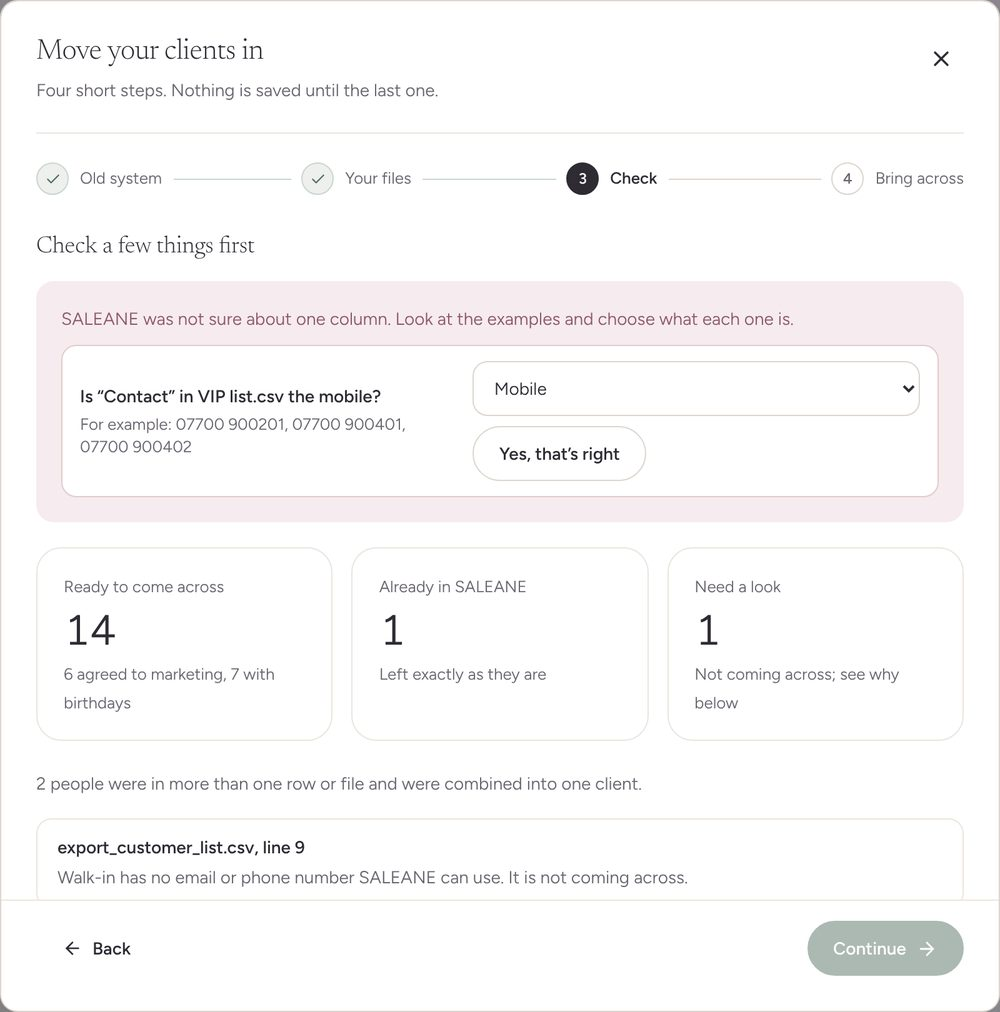
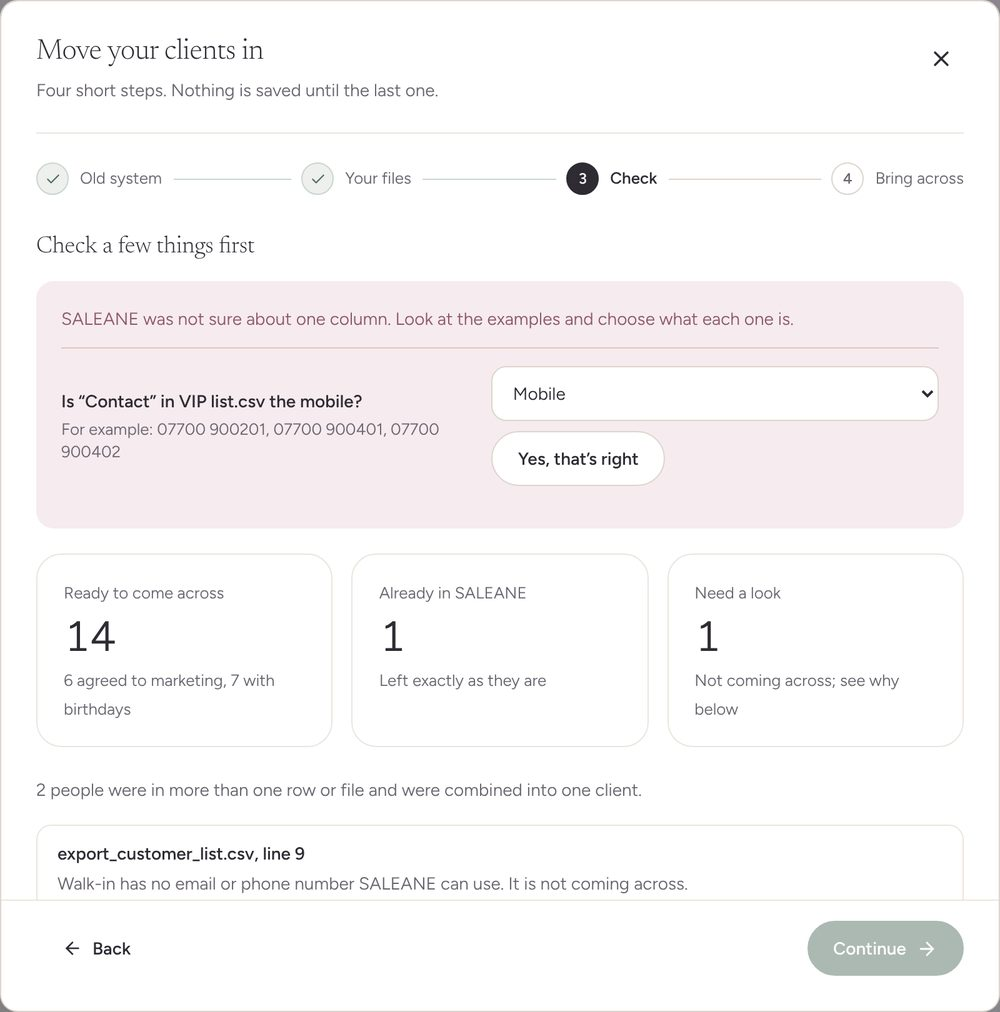
Moving in meets the quality bar
Questions and column choices on the Check step are rows with a hairline
instead of boxes inside boxes. Continue fills the width at the foot of each
step on a phone, with Back as a quiet partner. Each step body carries the
shared settle motion, which takes effect once it lands on main. The evidence
records the quality checklist at 1440 and 390 pixels, with refreshed
screenshots.

Claude-Session: https://claude.ai/code/session_01AmU8YcYNTsC8dzb2eYxY79

diff --git a/src/components/MovingIn.tsx b/src/components/MovingIn.tsx
@@ -230,7 +230,7 @@ export function MovingIn({ onClose }: { onClose: () => void }) {
         <WizardSteps steps={STEPS} current={step} label="Moving in steps" />
 
         {step === 1 && (
-          <section aria-labelledby={headingId}>
+          <section className="settle" aria-labelledby={headingId}>
             <h3 id={headingId} ref={heading} tabIndex={-1} className="wizard-heading">
               Where are you moving from?
             </h3>
@@ -250,7 +250,7 @@ export function MovingIn({ onClose }: { onClose: () => void }) {
         )}
 
         {step === 2 && system && (
-          <section aria-labelledby={headingId}>
+          <section className="settle" aria-labelledby={headingId}>
             <h3 id={headingId} ref={heading} tabIndex={-1} className="wizard-heading">
               {systemName ? `Add your ${systemName} client list` : 'Add your client list'}
             </h3>
@@ -329,7 +329,7 @@ export function MovingIn({ onClose }: { onClose: () => void }) {
         )}
 
         {step === 3 && (
-          <section aria-labelledby={headingId}>
+          <section className="settle" aria-labelledby={headingId}>
             <h3 id={headingId} ref={heading} tabIndex={-1} className="wizard-heading">
               {questions.length ? 'Check a few things first' : 'Check your clients'}
             </h3>
@@ -406,7 +406,7 @@ export function MovingIn({ onClose }: { onClose: () => void }) {
         )}
 
         {step === 4 && (
-          <section aria-labelledby={headingId}>
+          <section className="settle" aria-labelledby={headingId}>
             <h3 id={headingId} ref={heading} tabIndex={-1} className="wizard-heading">
               Bring them across
             </h3>

diff --git a/src/components/movingIn.css b/src/components/movingIn.css
@@ -112,19 +112,20 @@
   color: var(--rose-ink);
   font-size: var(--text-small);
 }
-.moving-questions .moving-field {
-  border-color: color-mix(in srgb, var(--rose) 22%, var(--line));
+.moving-questions > p + .moving-field {
+  margin-top: 12px;
 }
+.moving-questions .moving-field {
+  border-top-color: color-mix(in srgb, var(--rose) 28%, var(--line));
+}
+/* Each column is a row with a hairline above it, never a box inside a box. */
 .moving-field {
   display: grid;
   grid-template-columns: minmax(0, 1fr) auto;
   align-items: center;
   gap: 14px;
-  margin-top: 10px;
-  padding: 12px 14px;
-  border: 1px solid var(--line);
-  border-radius: var(--radius-control);
-  background: var(--paper);
+  padding: 14px 0;
+  border-top: 1px solid var(--line);
 }
 .moving-field label {
   display: block;
@@ -227,10 +228,7 @@
 .moving-columns ul {
   list-style: none;
   margin: 0;
-  padding: 0 14px 14px;
-}
-.moving-columns .moving-field {
-  margin-top: 8px;
+  padding: 0 16px 4px;
 }
 .moving-lead {
   margin: 0 0 14px;

diff --git a/src/design/components/wizard.css b/src/design/components/wizard.css
@@ -156,6 +156,10 @@
     min-height: 56px;
     padding: 0 14px;
   }
+  /* The way forward fills the width, within reach of a thumb; Back stays a quiet partner. */
+  .wizard-footer > .button:last-child {
+    flex: 1;
+  }
 }
 /* Matches the dialog's own padding on small screens. */
 @media (max-width: 650px) {

diff --git a/docs/evidence/MOVING-01.md b/docs/evidence/MOVING-01.md
@@ -49,6 +49,22 @@ The move is listed under Settings, Switching over, What has come across ("Client
 
 ![Phone, 390 pixels](MOVING-01-phone-390.jpg)
 
+## Quality bar
+
+Worked through at 1440 and 390 pixels against the checklist in the design language (Quality bar).
+
+- [x] **One main job and one primary button.** Each step has one heading and one primary button: Continue, then "Bring 14 clients across". "Yes, that’s right" on a question is secondary.
+- [x] **Rarely used options tucked away.** How each column was read is folded away for each file; rows to look at appear only when there are some.
+- [x] **No card inside a card.** Questions and column choices are rows with a hairline between them; the rows to look at are rows in one panel.
+- [x] **At most one photograph.** None: these are working steps.
+- [ ] **Empty welcome.** Not applicable: this is a dialog, not a page.
+- [ ] **Loading shapes.** Not yet: reading files shows "Reading your files…" as a status line, usually for under a second. `LoadingShapes` is not on main yet; this switches to `LoadingShapes kind="list"` once it is.
+- [x] **One way of moving.** Each step body carries `settle`, which takes the shared calm motion once that lands on main and does nothing until then; the dialog already opens with the shared motion. Nothing here moves on its own, so reduced motion loses nothing.
+- [x] **At 390 pixels.** Nothing scrolls sideways. Every target is at least 44 pixels except the dialog's own Close (40 pixels, from the shared `Modal`, unchanged here). Continue fills the width at the foot of each step and stays there while a long check scrolls.
+- [x] **Words.** Plain British English saying what happens next ("Nothing is saved until the last one").
+- [x] **Built from the library.** The step bar, tiles, footer and step focus are `src/design` pieces; `npm run check` and `npm run format:check` pass.
+- [x] **Before and after pictures.** [Moving in, before and after](https://claude.ai/artifact/7Ute6J7S84kfY45akDFxNE) and the screenshots above.
+
 ## Not done yet, said plainly
 
 - **No real export files yet.** Fresha's client list marketing columns, Square, Vagaro and GlossGenius are confirmed from published sources; Phorest and Timely layouts are likely, from their report labels and API names. Treatwell and Booksy have no published headings, so their files are read by meaning, and an unsure column is asked about. Real files will confirm or correct this.

diff --git a/CHANGELOG.md b/CHANGELOG.md
@@ -15,6 +15,7 @@ The owner said yes to the five moving-in answers. Stage 1 brings the client list
 - A moved-in client may have a phone number and no email. Guest booking and new clients at the desk still need an email.
 - Long lists are saved in parts the server accepts; a dropped connection keeps the files and says how many came across.
 - Visit, gift card, package and payment files are recognised and named, not saved; the screen says a later step brings them across. The older one-file client import is replaced by this screen.
+- Questions and column choices are rows with a fine line between them, not boxes inside boxes; Continue fills the width at the foot of each step on a phone; each step settles in with the shared calm motion.
 - The step bar, large choice tiles, the footer that stays in reach and the step focus are shared design pieces (`WizardSteps`, `ChoiceTiles`, `WizardFooter`, `useWizardStep` in `src/design`), so later wizards such as studio setup look and behave the same.
 
 ## 2026-10-09 · Studios paying for SALEANE (NEXT-02)
